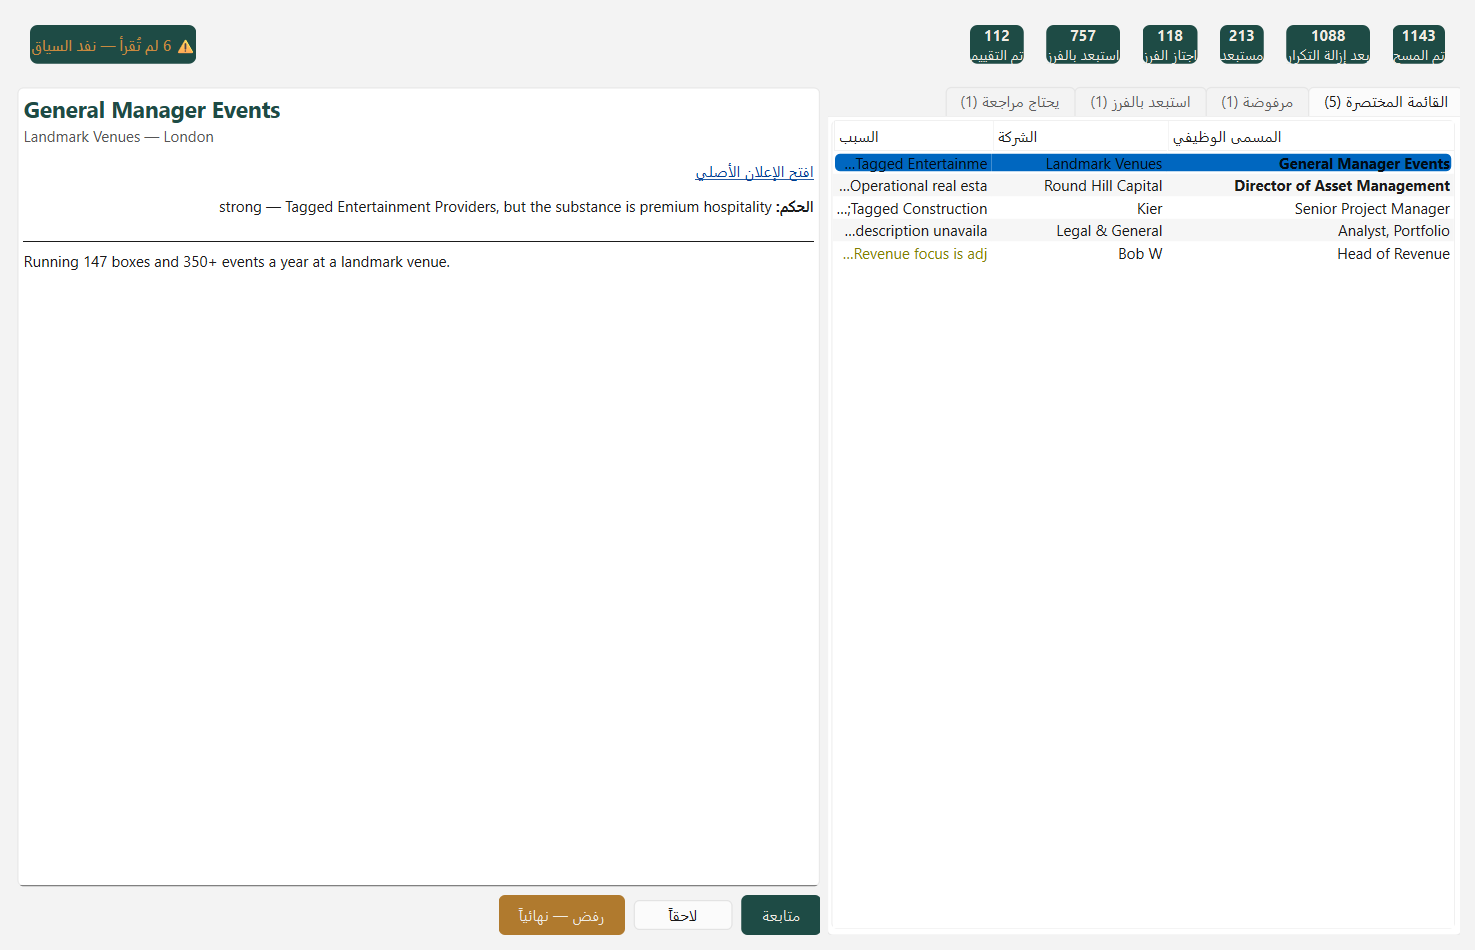
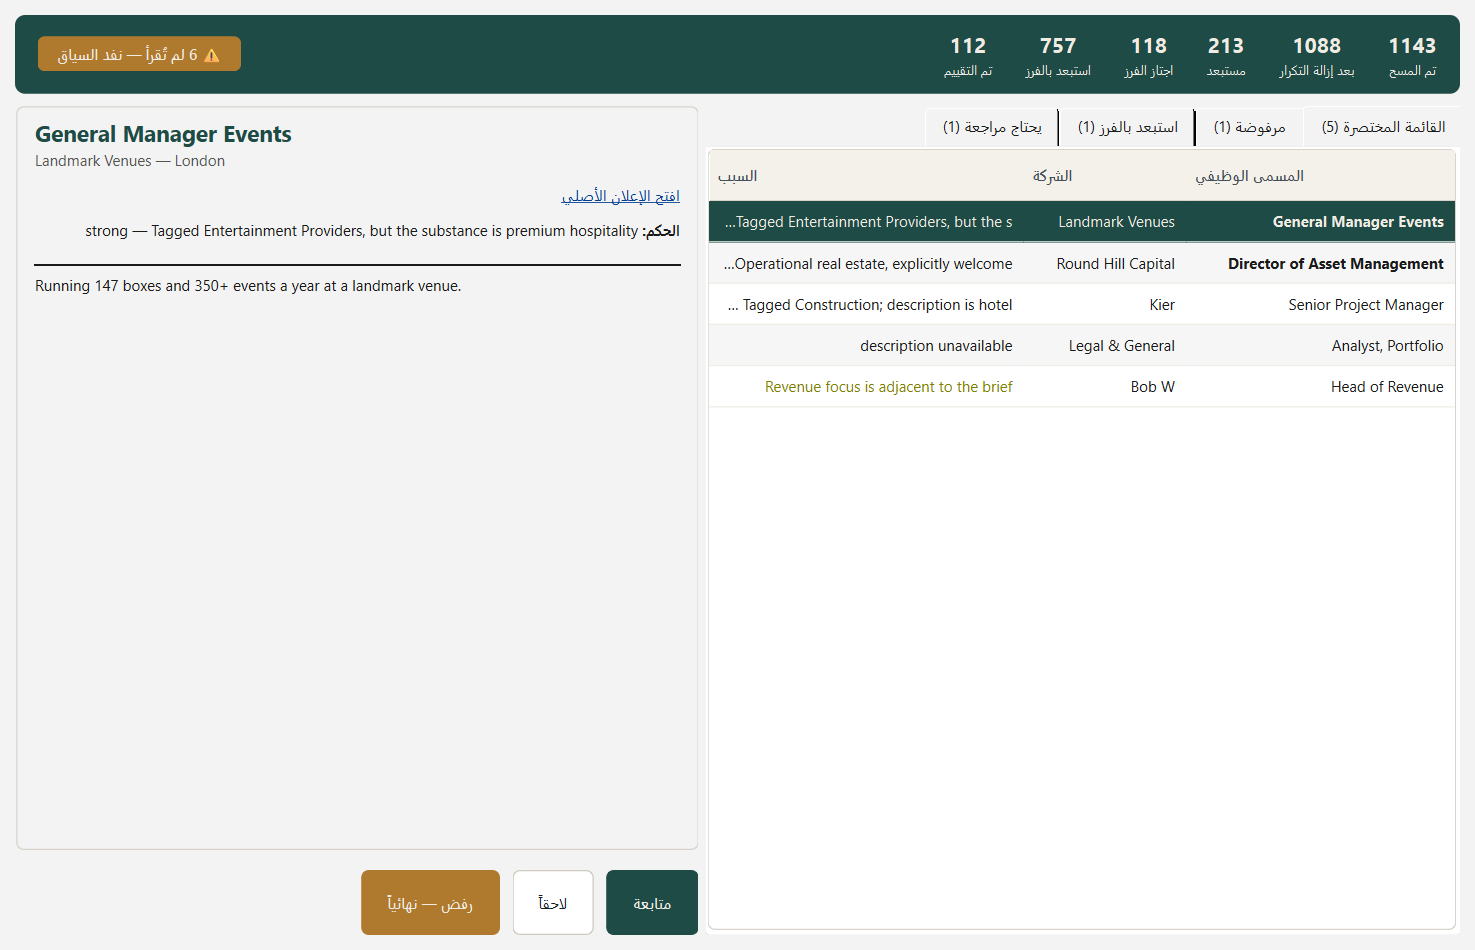
Fix review window layout: cascading styles, clipped text, uneven buttons
Three real defects, all mine, all visible only by rendering the window:

1. Qt stylesheets CASCADE to children. `setStyleSheet("background: TEAL;
   border-radius: 6px")` on the funnel bar repainted every QLabel inside it
   and gave each one a rounded box with ZERO padding - which is why the bar
   read as a row of chips with the text jammed against the edges. They were
   never meant to be chips. Replaced with one stylesheet on the window, every
   selector scoped by object name.

2. Styling ONE QPushButton drops Qt's native metrics for that one only.
   btn_later had no stylesheet while the other two did, so the row came out at
   mismatched heights with text tight against the edges. All three now share
   min-height and padding by object name.

3. Tree rows had no item padding, so the text sat taller than the row.

Two further bugs surfaced while fixing those, each caught by looking at the
render rather than by a test:

- The warning chip lost its background and showed only the warning glyph. Two
  causes: Qt applies CSS2 specificity, so `QFrame#funnelBar QLabel` (one ID +
  two type selectors) BEAT `QLabel#funnelWarning` (one ID + one type) and
  forced it transparent; and QSizePolicy.Ignored discarded its sizeHint so the
  preceding stretch starved it, and QLabel clips rather than elides. Now
  qualified, width-capped, and elided explicitly with the full note on hover.

- The funnel captions clipped at the panel edge because an HTML `line-height`
[…]

Changed region(s): [[0.0, 0.0, 0.998, 0.4274], [0.2183, 0.9158, 0.5614, 1.0], [0.7485, 0.3968, 0.8108, 0.4274]]

diff --git a/app/ui/review.py b/app/ui/review.py
@@ -18,10 +18,12 @@ from __future__ import annotations
 from dataclasses import dataclass
 
 from PySide6.QtCore import Qt, Signal
-from PySide6.QtGui import QFont
+from PySide6.QtGui import QFont, QFontMetrics
 from app.i18n import is_rtl, tr
-from PySide6.QtWidgets import (QApplication, QHBoxLayout, QLabel, QMainWindow,
-                               QPushButton, QSplitter, QTabWidget, QTextBrowser,
+from PySide6.QtWidgets import (QApplication, QFrame, QHBoxLayout, QLabel,
+                               QMainWindow,
+                               QPushButton, QSizePolicy, QSplitter,
+                               QTabWidget, QTextBrowser,
                                QTreeWidget, QTreeWidgetItem, QVBoxLayout,
                                QWidget)
 
@@ -33,6 +35,9 @@ GOLD = "#C98A3F"
 GOLD_DEEP = "#B07A2E"
 CREAM = "#F0ECE4"
 INK = "#16212A"
+
+#: The warning chip must never push the funnel counts off the bar.
+WARNING_MAX_WIDTH = 420
 
 BUCKET_ORDER = {"strong": 0, "possible": 1, "judgement-call": 2, "rejected": 3}
 
@@ -55,17 +60,140 @@ class ReviewRow:
     contained: bool = False
 
 
-class FunnelBar(QWidget):
+#: One stylesheet, every selector scoped by object name or class.
+#:
+#: Qt stylesheets CASCADE to child widgets. Setting `background` on a container
+#: silently repaints every label inside it, and `border-radius` turns each one
+#: into its own little box with no padding — which is exactly how the funnel
+#: bar ended up as a row of chips with the text jammed against the edges.
+#: Scope every rule, and give anything with a background explicit padding.
+STYLESHEET = f"""
+QFrame#funnelBar {{
+    background: {TEAL};
+    border-radius: 8px;
+}}
+/* Transparent, so the panel above is the only thing drawing a background. */
+QFrame#funnelBar QWidget {{
+    background: transparent;
+    color: {CREAM};
+}}
+QFrame#funnelBar QLabel#funnelWarning {{
+    background: {GOLD_DEEP};
+    color: {CREAM};
+    border-radius: 6px;
+    padding: 6px 12px;
+    font-weight: 600;
+}}
+
+/* Rows need vertical padding or the text sits taller than the row it is in. */
+QTreeWidget {{
+    border: 1px solid #d8d4cc;
+    border-radius: 6px;
+    outline: none;
+}}
+QTreeWidget::item {{
+    padding: 7px 6px;
+    border-bottom: 1px solid #efece6;
+}}
+QTreeWidget::item:selected {{
+    background: {TEAL};
+    color: {CREAM};
+}}
+QHeaderView::section {{
+    background: #f4f1ea;
+    color: #45505a;
+    padding: 8px 6px;
+    border: none;
+    border-bottom: 1px solid #d8d4cc;
+    font-weight: 600;
+}}
+
+/* All three buttons styled together: styling ONE of them drops Qt's native
+   metrics for that one only, which is what made the heights disagree. */
+QPushButton#decisionButton {{
+    min-height: 34px;
+    padding: 8px 20px;
+    border-radius: 6px;
+    border: 1px solid #cfcabf;
+    background: #ffffff;
+    color: {INK};
+}}
+QPushButton#decisionButton:hover {{ background: #f4f1ea; }}
+QPushButton#decisionButtonPrimary {{
+    min-height: 34px;
+    padding: 8px 20px;
+    border-radius: 6px;
+    border: 1px solid {TEAL};
+    background: {TEAL};
+    color: {CREAM};
+    font-weight: 600;
+}}
+QPushButton#decisionButtonPrimary:hover {{ background: {TEAL_LIFTED}; }}
+QPushButton#decisionButtonDanger {{
+    min-height: 34px;
+    padding: 8px 20px;
+    border-radius: 6px;
+    border: 1px solid {GOLD_DEEP};
+    background: {GOLD_DEEP};
+    color: {CREAM};
+    font-weight: 600;
+}}
+QPushButton#decisionButtonDanger:hover {{ background: {GOLD}; }}
+
+QTextBrowser#detailPane {{
+    border: 1px solid #d8d4cc;
+    border-radius: 6px;
+    padding: 4px 10px;
+}}
+QTabBar::tab {{ padding: 8px 14px; }}
+"""
+
+
+class FunnelBar(QFrame):
     """swept -> deduped -> gated -> screened -> assessed, always on screen."""
 
     def __init__(self, parent=None):
         super().__init__(parent)
+        self.setObjectName("funnelBar")
         self._layout = QHBoxLayout(self)
-        self._layout.setContentsMargins(12, 8, 12, 8)
-        self._layout.setSpacing(18)
-        self.setStyleSheet(
-            f"background:{TEAL}; color:{CREAM}; border-radius:6px;")
-        self._labels: dict[str, QLabel] = {}
+        # Generous inner margins: this panel has a background, so its contents
+        # must not touch its edges.
+        self._layout.setContentsMargins(18, 12, 18, 12)
+        self._layout.setSpacing(26)
+        self._labels: dict[str, QWidget] = {}
+
+    @staticmethod
+    def _stat(value: int, caption: str) -> QWidget:
+        """One stat, as two PLAIN-TEXT labels in a column.
+
+        Deliberately not one rich-text label: an HTML `line-height` renders
+        taller than the sizeHint Qt reports for it, so the caption clipped
+        against the panel edge and no minimum-height guess fixed it reliably.
+        Two real labels let Qt measure both lines exactly, and the column sizes
+        itself correctly in every locale — including scripts far taller than
+        Latin, which is where a hand-tuned height would break first.
+        """
+        box = QWidget()
+        col = QVBoxLayout(box)
+        col.setContentsMargins(0, 0, 0, 0)
+        col.setSpacing(2)
+
+        number = QLabel(str(value))
+        nf = QFont()
+        nf.setPointSizeF(QFont().pointSizeF() + 4)
+        nf.setBold(True)
+        number.setFont(nf)
+        number.setAlignment(Qt.AlignCenter)
+
+        text = QLabel(caption)
+        cf = QFont()
+        cf.setPointSizeF(max(QFont().pointSizeF() - 1.5, 7.0))
+        text.setFont(cf)
+        text.setAlignment(Qt.AlignCenter)
+
+        col.addWidget(number)
+        col.addWidget(text)
+        return box
 
     def set_counts(self, counts: dict[str, int], *, incomplete_note: str = "") -> None:
         while self._layout.count():
@@ -82,9 +210,7 @@ class FunnelBar(QWidget):
         for key, label in stages:
             if key not in counts:
                 continue
-            w = QLabel(f"<b>{counts[key]}</b><br><span style='font-size:11px'>{label}</span>")
-            w.setTextFormat(Qt.RichText)
-            w.setAlignment(Qt.AlignCenter)
+            w = self._stat(counts[key], label)
             self._layout.addWidget(w)
             self._labels[key] = w
 
@@ -99,8 +225,15 @@ class FunnelBar(QWidget):
                 text = "⚠ " + tr("funnel.incomplete")
             if incomplete_note:
                 text += f" — {incomplete_note}"
-            warn = QLabel(text)
-            warn.setStyleSheet(f"color:{GOLD}; font-weight:600;")
+            warn = QLabel()
+            warn.setObjectName("funnelWarning")
+            warn.setToolTip(text)
+            warn.setSizePolicy(QSizePolicy.Preferred, QSizePolicy.Fixed)
+            warn.setMaximumWidth(WARNING_MAX_WIDTH)
+            # QLabel clips rather than elides, so elide the string ourselves.
+            metrics = QFontMetrics(warn.font())
+            warn.setText(metrics.elidedText(
+                text, Qt.ElideRight, WARNING_MAX_WIDTH - 28))
             self._layout.addWidget(warn)
 
 
@@ -150,18 +283,24 @@ class ReviewWindow(QMainWindow):
         self.btn_pursue = QPushButton(tr("btn.pursue"))
         self.btn_later = QPushButton(tr("btn.later"))
         self.btn_reject = QPushButton(tr("btn.reject"))
-        self.btn_pursue.setStyleSheet(
-            f"background:{TEAL}; color:{CREAM}; padding:8px 16px; border-radius:5px;")
-        self.btn_reject.setStyleSheet(
-            f"background:{GOLD_DEEP}; color:{CREAM}; padding:8px 16px; border-radius:5px;")
+        self.btn_pursue.setObjectName("decisionButtonPrimary")
+        self.btn_later.setObjectName("decisionButton")
+        self.btn_reject.setObjectName("decisionButtonDanger")
+        buttons.setSpacing(10)
+        buttons.setContentsMargins(0, 10, 0, 0)
         for b in (self.btn_pursue, self.btn_later, self.btn_reject):
+            # A translated label is often much longer than the English one, so
+            # the button sizes to its text rather than to a fixed width.
+            b.setSizePolicy(QSizePolicy.Preferred, QSizePolicy.Fixed)
             buttons.addWidget(b)
         buttons.addStretch(1)
         rl.addLayout(buttons)
         splitter.addWidget(right)
-        splitter.setSizes([520, 660])
+        splitter.setSizes([620, 560])
         outer.addWidget(splitter, 1)
 
+        self.detail.setObjectName("detailPane")
+        self.setStyleSheet(STYLESHEET)
         self.setCentralWidget(root)
 
         for tree in (self.shortlist, self.rejected, self.screened_out, self.contained):
@@ -175,8 +314,8 @@ class ReviewWindow(QMainWindow):
     def _make_tree() -> QTreeWidget:
         t = QTreeWidget()
         t.setHeaderLabels([tr("col.title"), tr("col.company"), tr("col.why")])
-        t.setColumnWidth(0, 230)
-        t.setColumnWidth(1, 140)
+        t.setColumnWidth(0, 215)
+        t.setColumnWidth(1, 130)
         t.setRootIsDecorated(False)
         t.setAlternatingRowColors(True)
         # "Why" carries the verdict reason and the screen reason — the column
@@ -188,6 +327,9 @@ class ReviewWindow(QMainWindow):
         header.setMinimumSectionSize(90)
         t.setTextElideMode(Qt.ElideRight)
         t.setWordWrap(False)
+        # Uniform row heights: without this Qt measures every row and a single
+        # tall glyph (Arabic, Devanagari) stretches one row out of line.
+        t.setUniformRowHeights(True)
         return t
 
     def load(self, rows: list[ReviewRow], counts: dict[str, int], *,

diff --git a/tests/test_ui_review.py b/tests/test_ui_review.py
@@ -55,26 +55,57 @@ def test_screened_out_rows_are_browsable_not_deleted(win):
     assert "9" in win.tabs.tabText(2)
 
 
+def bar_text(win):
+    """Every label in the funnel bar, at any depth.
+
+    The stats are QWidget columns of two plain QLabels rather than one
+    rich-text label, so this walks rather than reading the top level.
+    """
+    from PySide6.QtWidgets import QLabel
+    return " ".join(lbl.text() for lbl in win.funnel.findChildren(QLabel))
+
+
 def test_the_funnel_bar_shows_every_stage(win):
     counts = {"swept": 1143, "deduped": 1088, "gated_out": 213,
               "screened_likely": 118, "screened_out": 757, "assessed": 112}
     win.load([], counts)
-    texts = [win.funnel._layout.itemAt(i).widget().text()
-             for i in range(win.funnel._layout.count())
-             if win.funnel._layout.itemAt(i).widget()]
-    joined = " ".join(texts)
+    joined = bar_text(win)
     for value in counts.values():
         assert str(value) in joined, "a count is never shown without its siblings"
+
+
+def test_every_funnel_caption_is_labelled(win):
+    """A bare number with no caption is a count without what it excludes."""
+    win.load([], {"swept": 10, "deduped": 9, "gated_out": 1,
+                  "screened_likely": 5, "screened_out": 3, "assessed": 5})
+    joined = bar_text(win)
+    for caption in ("Swept", "Deduped", "Gated", "Screened in",
+                    "Screened out", "Assessed"):
+        assert caption in joined
 
 
 def test_an_incomplete_run_is_announced_in_the_bar(win):
     win.load([], {"swept": 10, "assessed": 4, "left_unread": 6},
              incomplete_note="context exhausted")
-    texts = " ".join(
-        win.funnel._layout.itemAt(i).widget().text()
-        for i in range(win.funnel._layout.count())
-        if win.funnel._layout.itemAt(i).widget())
-    assert "6 left unread" in texts and "context exhausted" in texts
+    assert "6 left unread" in bar_text(win)
+    # The visible text is elided to fit the chip, so the FULL note lives on the
+    # tooltip - it must never be lost, only shortened.
+    from PySide6.QtWidgets import QLabel
+    tips = " ".join(l.toolTip() for l in win.funnel.findChildren(QLabel))
+    assert "context exhausted" in tips
+
+
+def test_a_very_long_note_is_elided_not_allowed_to_overflow(win):
+    from PySide6.QtWidgets import QLabel
+    note = "context exhausted after " + ("a very long explanation " * 12)
+    win.load([], {"swept": 10, "assessed": 4, "left_unread": 6},
+             incomplete_note=note)
+    warn = [l for l in win.funnel.findChildren(QLabel)
+            if l.objectName() == "funnelWarning"][0]
+    assert warn.width() <= 420 or warn.sizeHint().width() <= 420
+    assert warn.text() != note, "the label must elide rather than clip"
+    assert note in warn.toolTip(), "the whole note is still available"
+
 
 
 def test_strong_verdicts_sort_above_rejections(win):
@@ -114,3 +145,59 @@ def test_no_dangling_dash_when_there_is_no_reason(win):
     win.tabs.setCurrentIndex(2)
     win.screened_out.setCurrentItem(win.screened_out.topLevelItem(0))
     assert "screened-out —" not in win.detail.toPlainText()
+
+
+# --------------------------------------------------------------------------
+# Layout regressions. Both of these shipped once and were only visible by
+# rendering the window and looking at it.
+# --------------------------------------------------------------------------
+def test_all_three_decision_buttons_share_a_height(win):
+    """Styling ONE QPushButton drops Qt's native metrics for that one only.
+
+    btn_later had no stylesheet while the other two did, so the row of buttons
+    came out at mismatched heights with the text tight against the edges.
+    All three are now styled together by object name.
+    """
+    win.show()
+    heights = {b.sizeHint().height() for b in
+               (win.btn_pursue, win.btn_later, win.btn_reject)}
+    assert len(heights) == 1, f"button heights disagree: {heights}"
+    assert heights.pop() >= 34, "buttons need room for their padding"
+
+
+def test_no_widget_paints_its_own_background(win):
+    """Qt stylesheets CASCADE to children.
+
+    A `background` set on a container repaints every label inside it, and a
+    `border-radius` turns each one into its own box with no padding — which is
+    how the funnel bar became a row of chips with clipped text. The window owns
+    the one stylesheet; nothing below it sets its own.
+    """
+    import pathlib
+    import re
+
+    src = pathlib.Path(win.__class__.__module__.replace(".", "/") + ".py")
+    if not src.exists():
+        import app.ui.review as mod
+        src = pathlib.Path(mod.__file__)
+    text = src.read_text(encoding="utf-8")
+    calls = re.findall(r"(\w+)\.setStyleSheet\(", text)
+    assert calls == ["self"], (
+        f"only the window may set a stylesheet; found {calls}")
+
+
+def test_the_funnel_captions_fit_their_labels(win):
+    """The captions clipped when they were one rich-text label: an HTML
+    line-height renders taller than the sizeHint Qt reports. They are two
+    plain-text labels now, so Qt measures both lines exactly."""
+    from PySide6.QtWidgets import QLabel
+    win.load([], {"swept": 1143, "deduped": 1088, "gated_out": 213,
+                  "screened_likely": 118, "screened_out": 757, "assessed": 112})
+    win.show()
+    for label in win.funnel.findChildren(QLabel):
+        if label.objectName() == "funnelWarning":
+            continue
+        hint = label.sizeHint().height()
+        assert hint > 0
+        assert label.height() == 0 or label.height() >= hint, (
+            f"{label.text()!r} is allotted less height than it needs")
